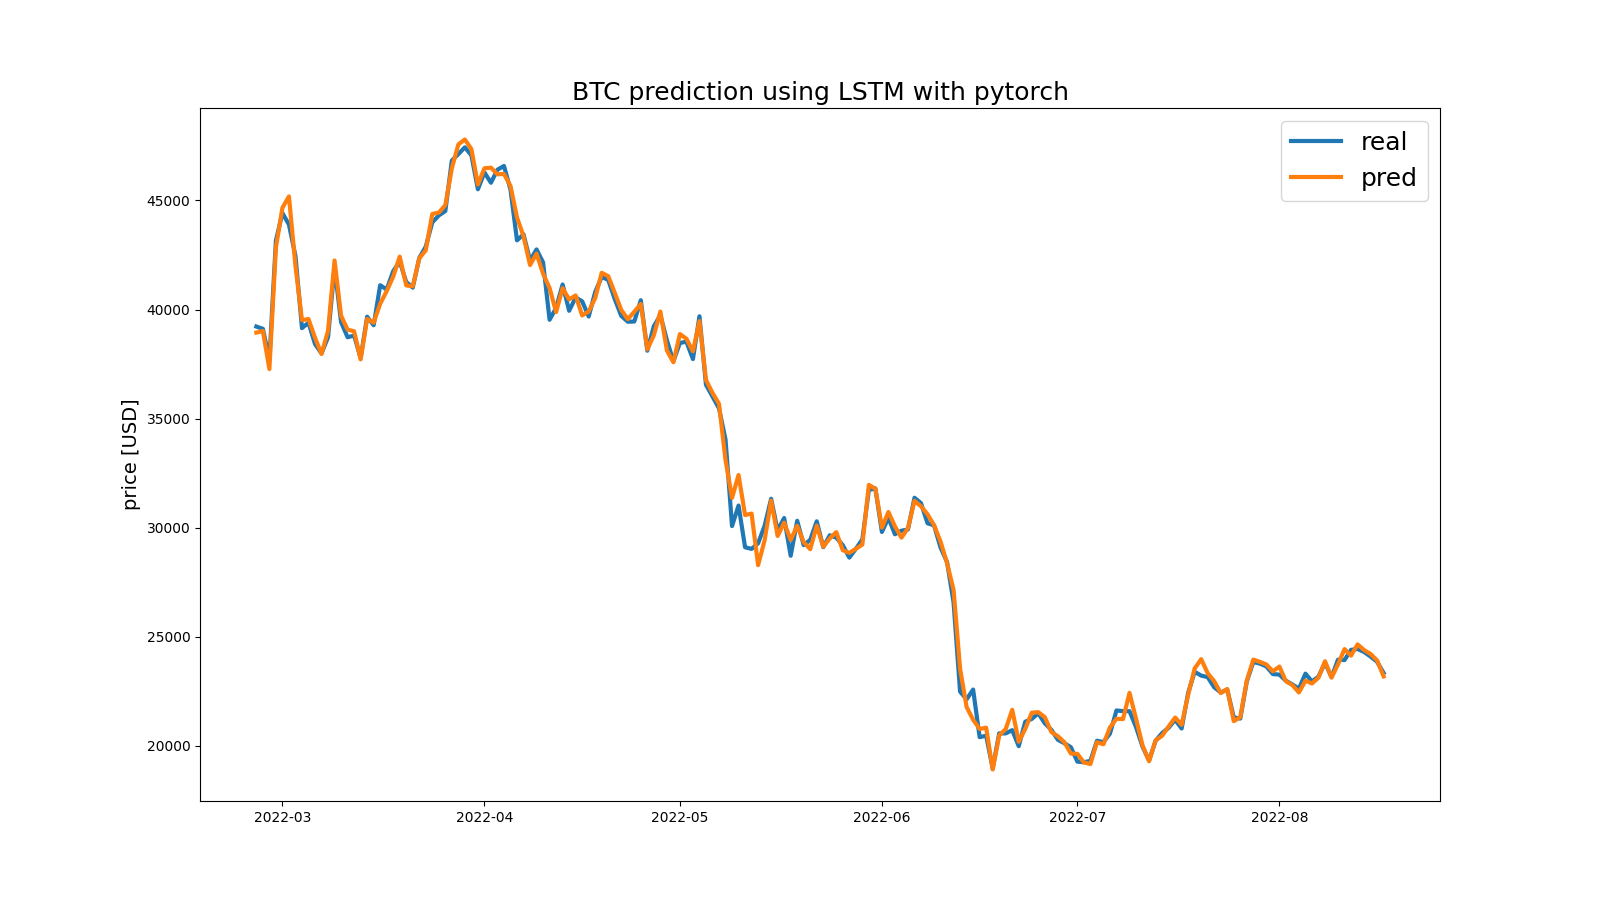
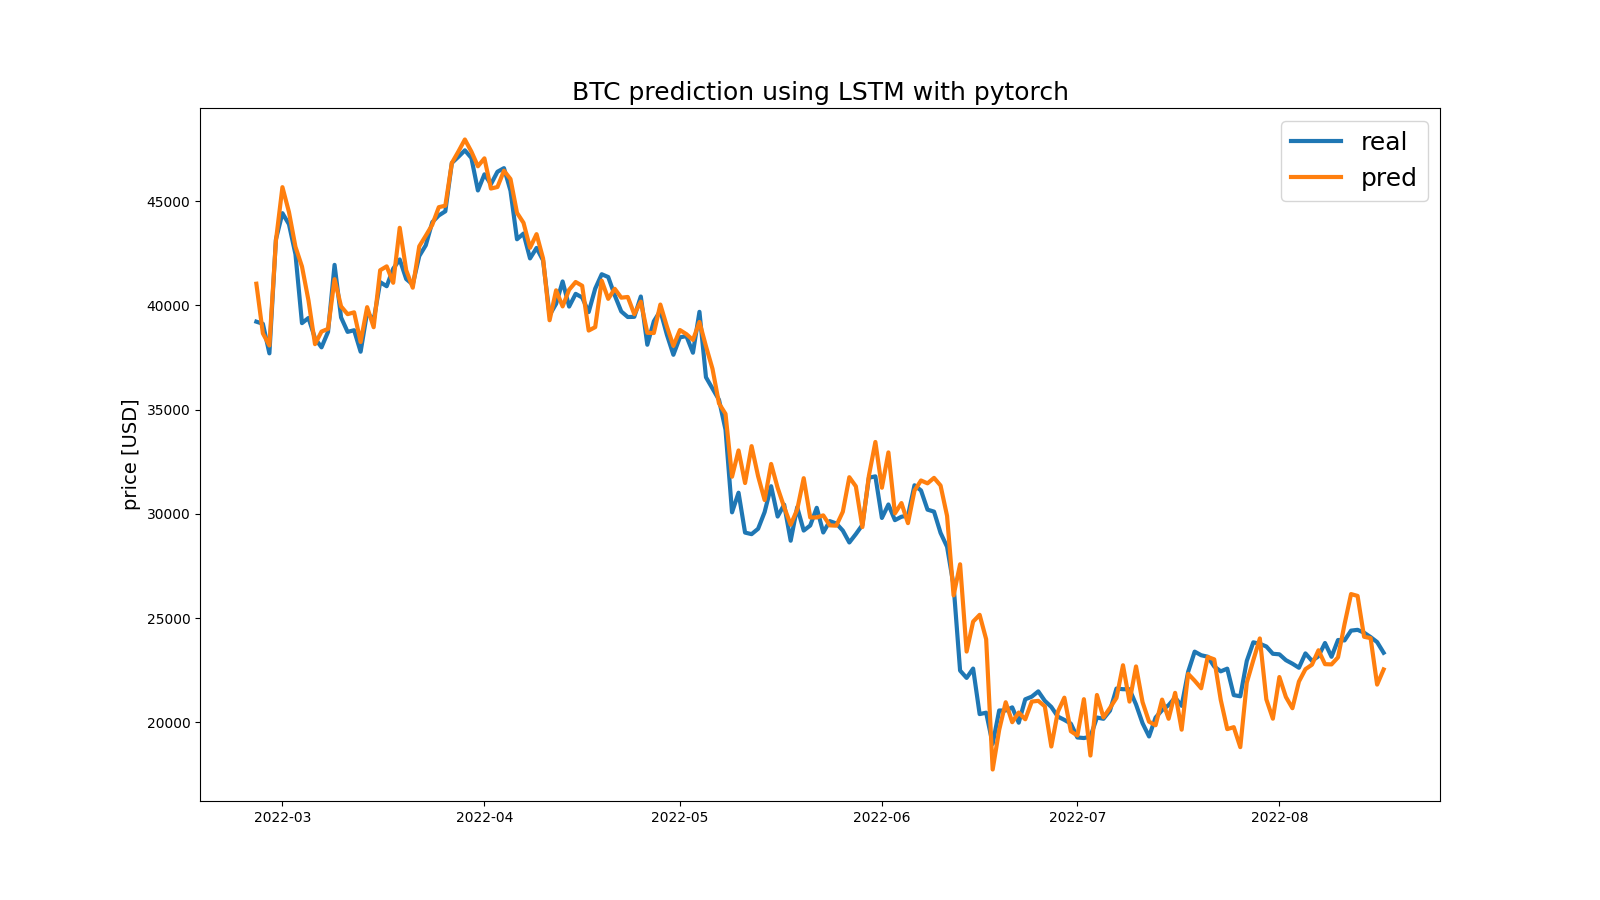
Update fig to readme...

diff --git a/scripts/example1.py b/scripts/example1.py
@@ -31,7 +31,7 @@ class LSTM(torch.nn.Module):
         history = []
         with trange(1, epochs + 1, desc='Training', leave=True) as steps:
             for k in steps:
-                y_pred = torch.squeeze(self.forward(x=X_torch))
+                y_pred = self.forward(x=X_torch)
                 loss = loss_fn(y_pred, y_torch)
                 status = {'loss': loss.item()}
                 history.append(status['loss'])
@@ -45,7 +45,7 @@ class LSTM(torch.nn.Module):
 
 if __name__ == '__main__':
     # from sklearn.model_selection import train_test_split
-    from sklearn.preprocessing import StandardScaler
+    from sklearn.preprocessing import StandardScaler, MinMaxScaler
     from sklearn.metrics import mean_absolute_error
     import pandas as pd
     import matplotlib.pyplot as plt
@@ -59,16 +59,38 @@ if __name__ == '__main__':
 
     target_col = 'Close'
     window = 7
-    train, test, X_train, X_test, y_train, y_test = tools.prepare_data(df=df, target_col=target_col, window_len=window,
-                                                                       zero_base=True, test_size=0.1)
+
+    # train test split
+    train_data, test_data = tools.train_test_split(df, test_size=0.1)
+
+    x_scaler = StandardScaler()
+    x_scaler.fit(train_data)
+
+    # extract targets
+    y_train = train_data[target_col][window:].values.reshape(-1, 1)
+    y_test = test_data[target_col][window:].values.reshape(-1, 1)
+
+    # extract window data
+    X_train = tools.extract_window_data(x_scaler.transform(train_data), window, False)
+    X_test = tools.extract_window_data(x_scaler.transform(test_data), window, False)
+
+    # train, test, X_train, X_test, y_train, y_test = tools.prepare_data(df=df, target_col=target_col, window_len=window,
+    #                                                                    zero_base=False, test_size=0.1)
 
     print(X_train.shape, y_train.shape, y_train.min(), y_train.max())
 
+    y_scaler = MinMaxScaler(feature_range=(-1, 1))
+    y_scaler.fit(y_train)
+    y_train_scaled = y_scaler.transform(y_train)
+
     model = LSTM(input_dim=X_train.shape[-1], output_dim=1)
-    model.fit(X=X_train, y=y_train, epochs=200)
+    model.fit(X=X_train, y=y_train_scaled, epochs=2000)
 
     y_test_pred = np.squeeze(model(torch.as_tensor(X_test, dtype=torch.float32)).detach().numpy())
-    print(f'mean_absolute_error (test): {mean_absolute_error(y_test, y_test_pred)}')
+
+    # assert 1==3, "Fin"
+    y_test_scaled = y_scaler.transform(y_test)
+    print(f'mean_absolute_error (test): {mean_absolute_error(y_test_scaled, y_test_pred)}')
 
     # y_scaler = StandardScaler().fit(y_train)
     # y_train_torch = torch.from_numpy(y_scaler.transform(y_train)).float()
@@ -77,16 +99,19 @@ if __name__ == '__main__':
     idx_fin = 100
     fig, ax = plt.subplots(figsize=(16, 8))
     x_vec = np.arange(len(X_test))
-    ax.fill_between(x_vec[:idx_fin], y_test_pred[:idx_fin] - np.std(y_train), y_test_pred[:idx_fin] + np.std(y_train),
+    ax.fill_between(x_vec[:idx_fin], y_test_pred[:idx_fin] - np.std(y_train_scaled),
+                    y_test_pred[:idx_fin] + np.std(y_train_scaled),
                     alpha=0.5, label='+/- 1 std dev')
     ax.plot(x_vec[:idx_fin], y_test_pred[:idx_fin], label='prediction', color='blue')
-    ax.plot(x_vec[:idx_fin], np.squeeze(y_test)[:idx_fin], 'ko', label='true')
+    ax.plot(x_vec[:idx_fin], np.squeeze(y_test_scaled)[:idx_fin], 'ko', label='true')
     ax.legend(loc='best', fontsize=18)
     plt.savefig('../figs/lstm_scaled_results.png')
     plt.show()
 
-    targets = test[target_col][window:]
-    preds_ts = pd.Series(data=test[target_col].values[:-window] * (y_test_pred + 1),
+    targets = test_data[target_col][window:]
+    # preds_ts = pd.Series(data=test_data[target_col].values[:-window] * (y_test_pred + 1),
+    #                      index=targets.index)
+    preds_ts = pd.Series(data=np.squeeze(y_scaler.inverse_transform(y_test_pred.reshape(-1, 1))),
                          index=targets.index)
 
     n_points = 200
@@ -97,4 +122,5 @@ if __name__ == '__main__':
     ax.set_title('BTC prediction using LSTM with pytorch', fontsize=18)
     ax.legend(loc='best', fontsize=18)
     plt.savefig('../figs/lstm_results.png')
+    plt.show()
 

diff --git a/vector_analytica_forecast/tools.py b/vector_analytica_forecast/tools.py
@@ -25,7 +25,7 @@ def extract_window_data(df, window_len=10, zero_base=True):
         tmp = df[idx: (idx + window_len)].copy()
         if zero_base:
             tmp = normalise_zero_base(tmp)
-        window_data.append(tmp.values)
+        window_data.append(tmp)
     return np.array(window_data)
 
 
